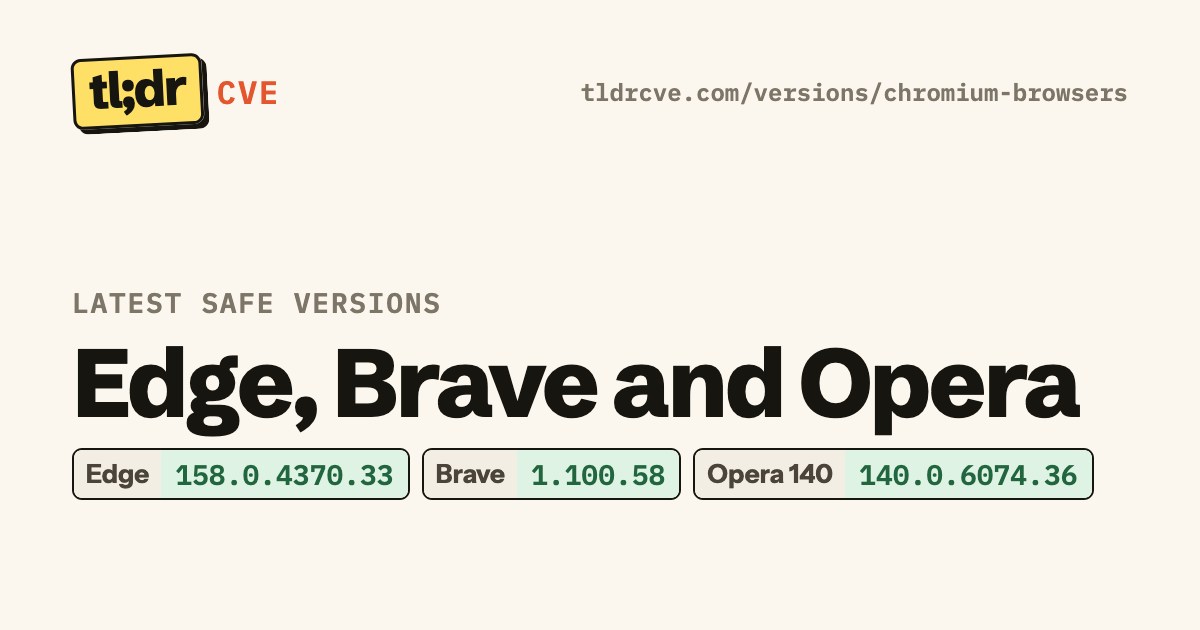
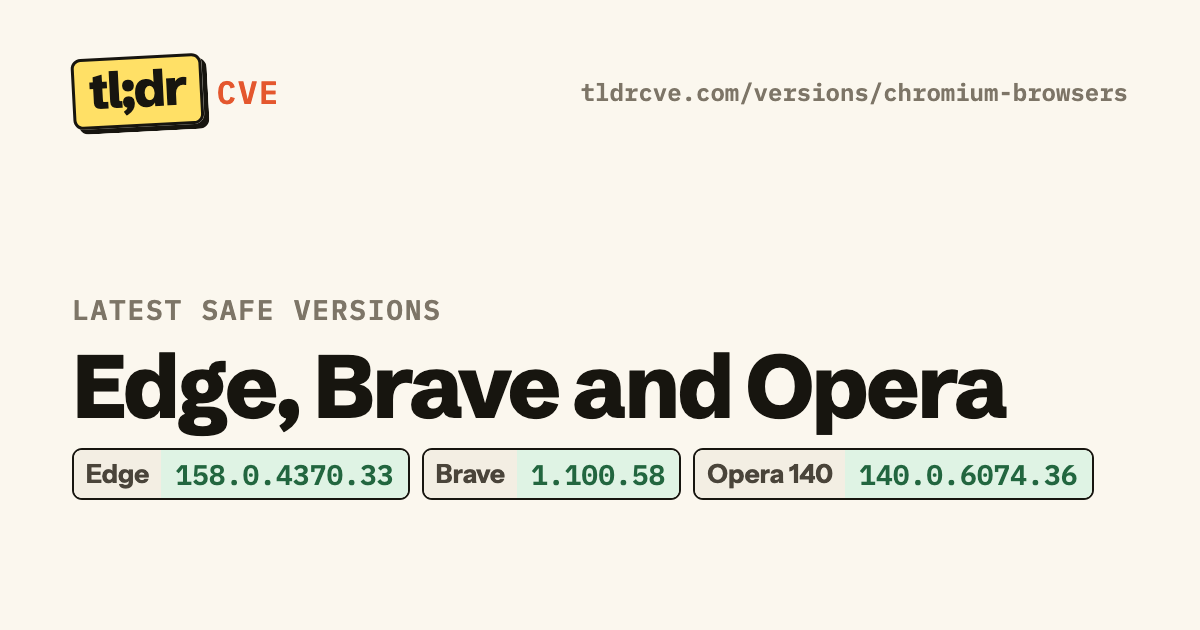
Show safe versions on every page that has a fix (#15)
* Show safe versions on every page that has a fix

New versions files for WordPress, Next.js, sharp, React Server Components
and NetScaler, with cards; the WordPress, Next.js, React, NetScaler and
Upload2Shell pages embed them and record fixed_in. The build now warns
when a page isn't tied to any Safe versions product and has no
versions_skip reason; pam-mysql gets one (distro fixes only).

* Shrink long product names on Safe versions cards

Names over about 18 characters ran off the right edge of the card
(SAP kernel and Web Dispatcher, NetScaler ADC / Gateway, React Server
Components). The title now gets a smaller font size to fit one line;
four cards are redrawn.

---------

Changed region(s): [[0.0617, 0.5429, 0.925, 0.6937], [0.0617, 0.4524, 0.37, 0.5127]]

diff --git a/build.py b/build.py
@@ -467,6 +467,13 @@ def versions_checks(all_c: list) -> list:
                 elif vkey(lines[key]["latest"]) < vkey(fixed):
                     warnings.append(f'versions/{pid}.json: {key} latest {lines[key]["latest"]} is older than the fix {fixed} '
                                     f'on {c["slug"]}; run python3 tools/versions.py')
+    for c in all_c:  # every page is tied to a product on Safe versions, or says why not
+        covered = [pid for pid in VERSIONS if c["slug"] in {x["slug"] for x in product_pages(pid, all_c)}]
+        if not covered and not c.get("versions_skip"):
+            warnings.append(f'{c["slug"]}: not on Safe versions; add fixed_in (fix released) or an unfixed entry in '
+                            f'versions/<product>.json (fix pending), or "versions_skip": "<reason>"')
+        if covered and c.get("versions_skip"):
+            warnings.append(f'{c["slug"]}: has versions_skip but is listed by versions/{covered[0]}.json; remove versions_skip')
     for pid, v in VERSIONS.items():
         for u in v.get("unfixed", []):
             for slug in set(u["pages"]) - slugs:

diff --git a/tools/cards.py b/tools/cards.py
@@ -106,8 +106,14 @@ def product_card(v, n_bugs):
     if len(lines) > len(shown):
         chips += f'<span class="more">+{len(lines) - len(shown)} more</span>'
     return f"""{header("tldrcve.com/versions/" + v["id"])}
-<div class="main"><div class="kick">Latest safe versions</div><h1>{html.escape(v["name"])}</h1>
+<div class="main"><div class="kick">Latest safe versions</div><h1{h1_size(v["name"])}>{html.escape(v["name"])}</h1>
 <div class="chips">{chips}</div></div>"""
+
+
+def h1_size(name: str) -> str:
+    """Long product names get a smaller title so they fit on one line (about 0.56 em per character at 96px)."""
+    size = min(96, int((W - 144) / (0.56 * len(name))))
+    return "" if size == 96 else f' style="font-size:{size}px"'
 
 
 def find_browser():

diff --git a/AGENTS.md b/AGENTS.md
@@ -49,6 +49,7 @@ The build warns about:
 - relative dates ("today")
 - overdue pending items
 - a missing `needs` field when `no_login` is false
+- a page not tied to any Safe versions product and without `versions_skip`
 
 A change is only done when `--strict` passes.
 
@@ -85,6 +86,7 @@ Copy the shape of an existing file (`content/nginx2root.json` is a good model).
 | `affected[]` | Conditions that must **all** be true: `label`, `text`, optional `cmd`, `cite` |
 | `do[]` | Steps: `label`, `text`, optional `cmd`, `cite`, optional `pending: {"expected": "YYYY-MM-DD"}`, optional `versions: ["php"]` to show that product's latest safe versions in the step |
 | `fixed_in` | Optional: first fixed version per product line, e.g. `{"php": {"8.5": "8.5.13"}}`. Keys match `versions/<product>.json`. Leave it out when there is no fix |
+| `versions_skip` | Optional: why the page has no Safe versions product, e.g. fixes exist only as distro packages. Every other page must be tied to one: `fixed_in` when a fix is released, or an `unfixed` entry in `versions/<product>.json` while it's pending |
 | `bugs` | Optional, makes the page a release roundup: one entry per advisory with `cve`, `project`, `severity`, `url`; critical and high ones also get `title`, `text`, `verdict` and optional `page` (slug of the bug's own page, which then links back). Leave a bug's CVE out of `cves` when it has its own page |
 | `slack` | Paste-ready summary paragraph, no URL |
 | `sources[]` | `title` ("Publisher: what it supports"), `url`, optional `date`. `cite` numbers are 1-based indexes into this list |
